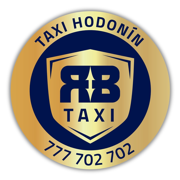
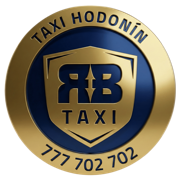
Add files via upload

diff --git a/app.js b/app.js
@@ -1,5 +1,5 @@
 document.addEventListener("DOMContentLoaded", () => {
-  const VERSION = "3.6.17-done-report";
+  const VERSION = "3.6.18-logo-rb";
   const CONFIG_KEYS = {
     commRate: "rb_commRate",
     baseFull: "rb_baseFull",

diff --git a/service-worker.js b/service-worker.js
@@ -1,4 +1,4 @@
-const CACHE_NAME = 'rb-taxi-vycetka-v3-6-17-done-report';
+const CACHE_NAME = 'rb-taxi-vycetka-v3-6-18-logo-rb';
 const APP_SHELL = [
   './',
   './index.html',
